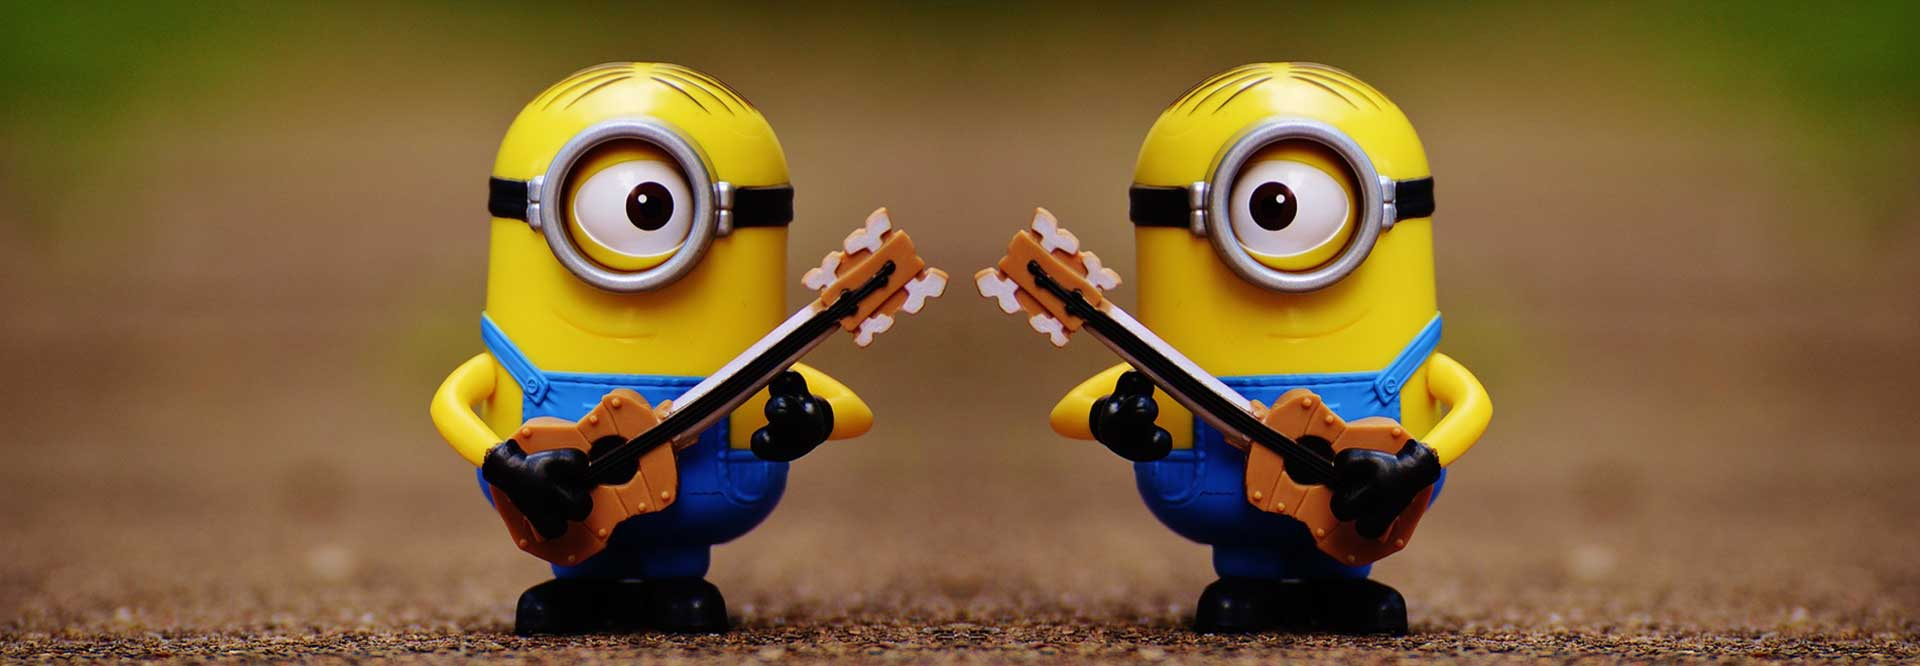
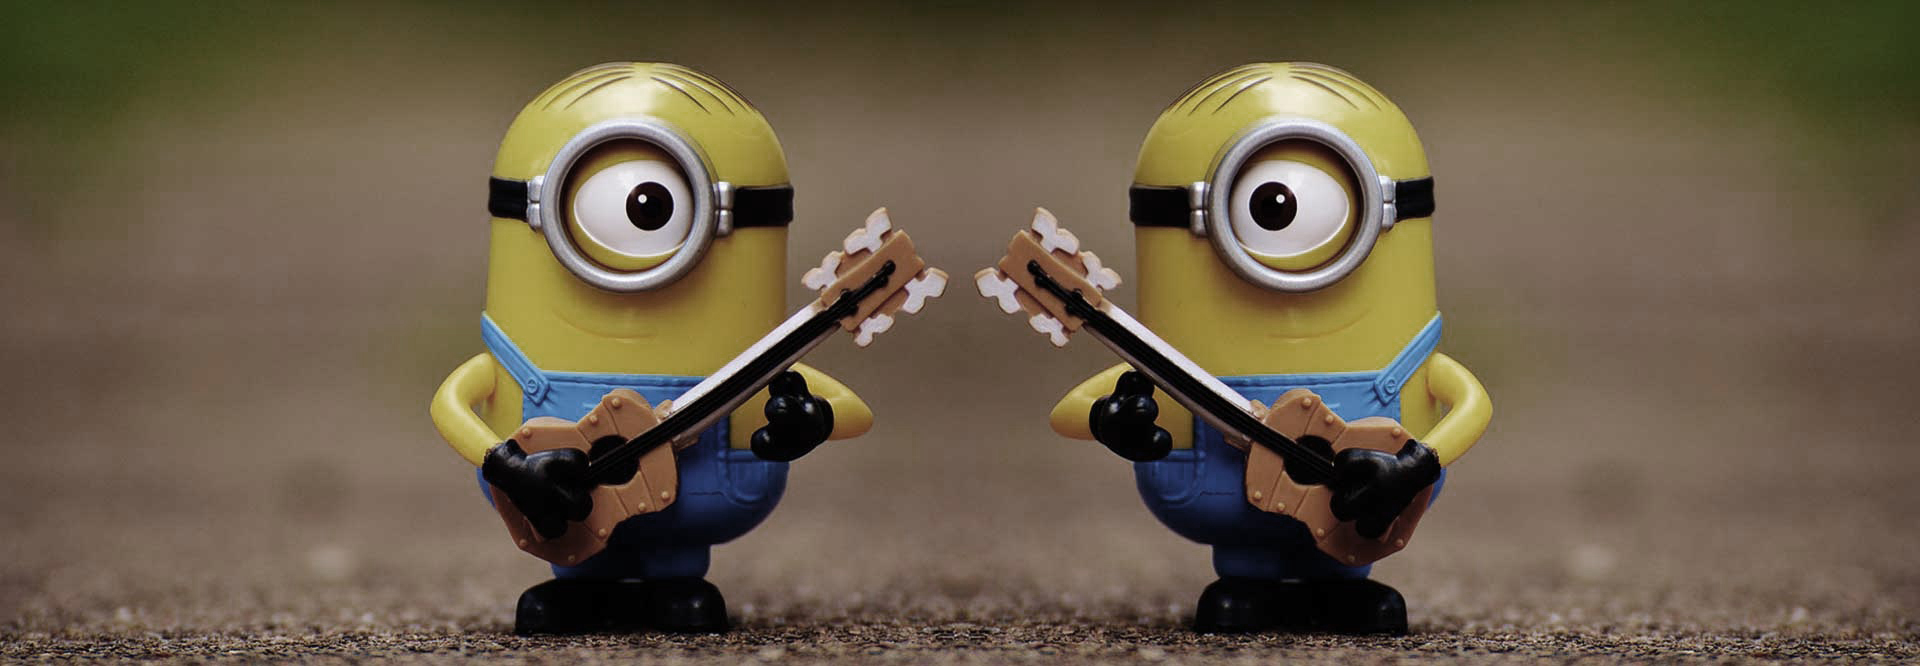
+Cambios

Changed region(s): [[0.2188, 0.0901, 0.7812, 0.8108]]

diff --git a/carteleria-digital.html b/carteleria-digital.html
@@ -95,7 +95,7 @@
 			<h2><p class="sistema-carteleria">Sistema de cartelería digital + turnos</p></h2>
 			<br>
 			<div class="intro_buttons">	
-				<a href="http://www.musuxmedia.com" class="iris_btn iris_btn--lg iris_btn--positive we-do conocer">conocer más</a>
+				<a href="http://www.musuxmedia.com" target="_blank" class="iris_btn iris_btn--lg iris_btn--positive we-do conocer">conocer más</a>
 			</div>
 		</section>
 		<br>

diff --git a/css/media-querys-custom.css b/css/media-querys-custom.css
@@ -38,7 +38,7 @@
     .minions-cover{
         height:666px;
         background-size: cover;
-        background-image: url("../img/Fondos/Minions/minions-1200.jpg");
+        background-image: url("../img/Fondos/Minions/minions-1920.jpg");
         background-position:center;
     }
     #scroll-to-content {
